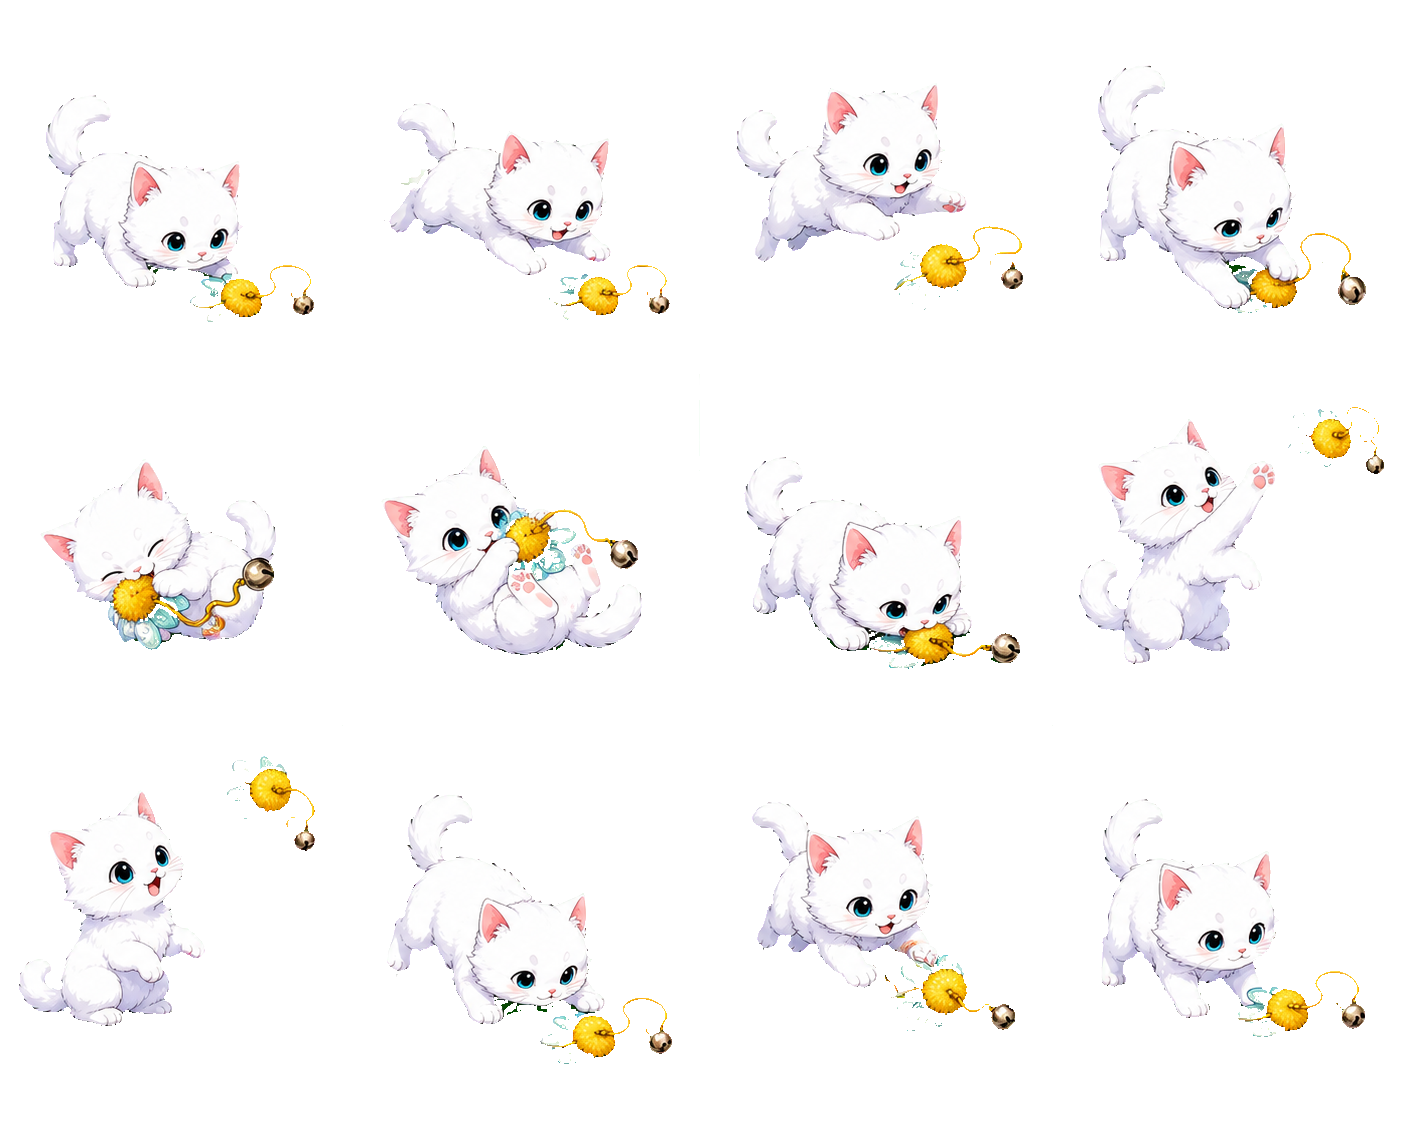
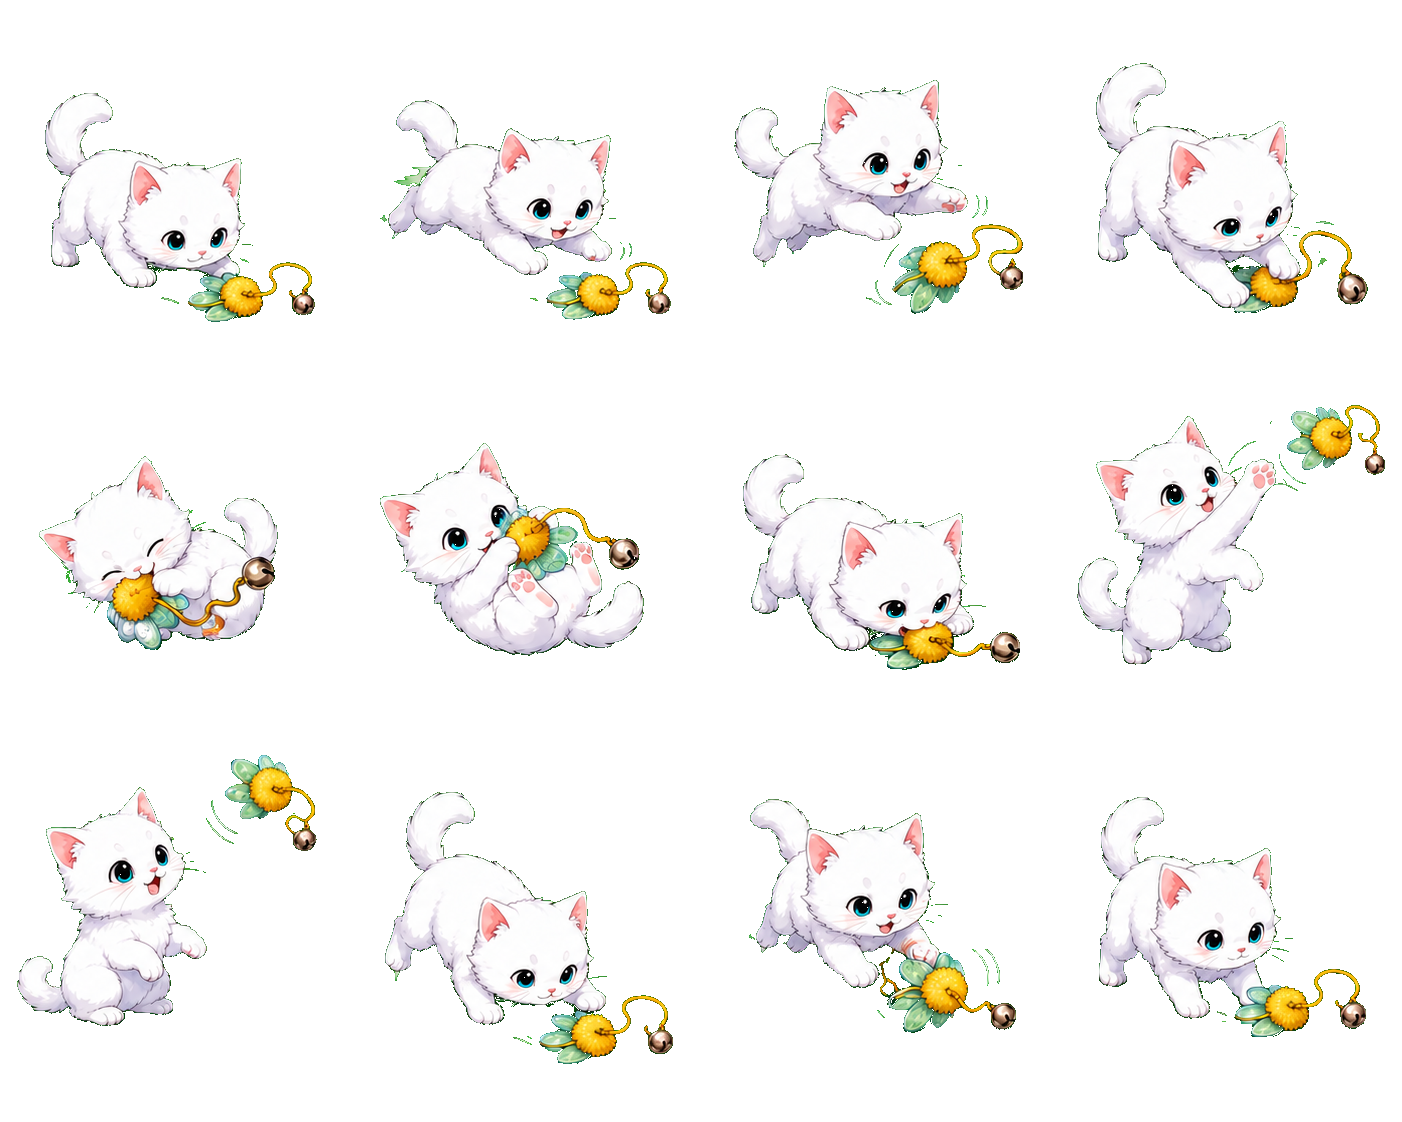
UI polish and animation tuning
- Redesign status bars and action buttons with color accents and smooth transitions
- Hide cat name label for cleaner look
- Fix sprite frame counts (eat/drink: 8 frames, play: faster speed)
- Adjust sleep scale to 0.65

diff --git a/index.html b/index.html
@@ -45,78 +45,124 @@ body {
 
 #status-panel {
   position: absolute;
-  top: 12px; left: 12px; right: 12px;
-  background: rgba(255,255,255,0.92);
-  border-radius: 14px;
-  padding: 12px 16px;
-  pointer-events: auto;
-  box-shadow: 0 2px 12px rgba(0,0,0,0.15);
+  top: 10px; left: 10px; right: 10px;
+  padding: 0;
+  pointer-events: none;
 }
 
 #cat-name {
-  font-size: 16px;
-  font-weight: 700;
-  color: #333;
-  margin-bottom: 8px;
-  display: flex;
-  align-items: center;
-  gap: 6px;
+  display: none;
+}
+
+#cat-name::before {
+  content: '';
 }
 
 #cat-name span {
-  font-size: 12px;
-  color: #888;
-  font-weight: 400;
+  display: none;
 }
 
 .stat-row {
   display: flex;
   align-items: center;
-  margin-bottom: 5px;
-  gap: 8px;
+  margin-bottom: 6px;
+  gap: 6px;
 }
 
 .stat-row:last-child { margin-bottom: 0; }
 
-.stat-icon { width: 20px; text-align: center; font-size: 14px; }
-.stat-label { width: 60px; font-size: 11px; color: #666; font-weight: 500; }
-.stat-bar-bg { flex: 1; height: 10px; background: #e8e8e8; border-radius: 5px; overflow: hidden; }
-.stat-bar { height: 100%; border-radius: 5px; transition: width 0.5s ease; }
-.stat-bar.hunger { background: linear-gradient(90deg, #ff6b6b, #ffa94d); }
-.stat-bar.thirst { background: linear-gradient(90deg, #4dabf7, #74c0fc); }
-.stat-bar.happiness { background: linear-gradient(90deg, #ffd43b, #ffe066); }
-.stat-bar.energy { background: linear-gradient(90deg, #69db7c, #8ce99a); }
-.stat-value { width: 32px; text-align: right; font-size: 11px; color: #888; font-weight: 600; }
+.stat-icon { width: 22px; text-align: center; font-size: 14px; filter: drop-shadow(0 1px 2px rgba(0,0,0,0.2)); }
+.stat-label { display: none; }
+.stat-bar-bg {
+  flex: 1; height: 14px;
+  background: rgba(255,255,255,0.5);
+  border-radius: 7px;
+  overflow: hidden;
+  box-shadow: inset 0 2px 4px rgba(0,0,0,0.08), 0 1px 0 rgba(255,255,255,0.6);
+  border: 1px solid rgba(0,0,0,0.06);
+}
+.stat-bar {
+  height: 100%; border-radius: 7px;
+  transition: width 0.5s cubic-bezier(0.4, 0, 0.2, 1);
+  position: relative;
+  overflow: hidden;
+}
+.stat-bar::after {
+  content: '';
+  position: absolute;
+  top: 2px; left: 4px; right: 4px;
+  height: 4px;
+  background: rgba(255,255,255,0.4);
+  border-radius: 3px;
+}
+.stat-bar.hunger { background: linear-gradient(90deg, #ff8a65, #ffab91); }
+.stat-bar.thirst { background: linear-gradient(90deg, #64b5f6, #90caf9); }
+.stat-bar.happiness { background: linear-gradient(90deg, #ffca28, #ffe082); }
+.stat-bar.energy { background: linear-gradient(90deg, #81c784, #a5d6a7); }
+.stat-value {
+  width: 30px; text-align: right;
+  font-size: 11px; color: #5d4037;
+  font-weight: 700;
+  text-shadow: 0 1px 2px rgba(255,255,255,0.6);
+}
 
 #action-bar {
   position: absolute;
-  bottom: 16px; left: 12px; right: 12px;
+  bottom: 14px; left: 10px; right: 10px;
   display: flex;
-  gap: 8px;
+  gap: 10px;
   justify-content: center;
   pointer-events: auto;
 }
 
 .action-btn {
-  width: 64px;
-  height: 64px;
-  border-radius: 16px;
-  border: none;
+  width: 62px;
+  height: 72px;
+  border-radius: 20px;
+  border: 2.5px solid transparent;
   cursor: pointer;
   display: flex;
   flex-direction: column;
   align-items: center;
   justify-content: center;
-  gap: 2px;
+  gap: 3px;
   background: rgba(255,255,255,0.95);
-  box-shadow: 0 3px 12px rgba(0,0,0,0.15);
-  transition: transform 0.15s, box-shadow 0.15s;
+  box-shadow: 0 4px 14px rgba(0,0,0,0.12), 0 2px 4px rgba(0,0,0,0.08);
+  transition: transform 0.2s cubic-bezier(0.34, 1.56, 0.64, 1), box-shadow 0.2s, border-color 0.2s;
+  position: relative;
+  overflow: hidden;
 }
 
-.action-btn:hover { transform: translateY(-2px); box-shadow: 0 5px 16px rgba(0,0,0,0.2); }
-.action-btn:active { transform: translateY(1px) scale(0.95); }
-.action-btn .icon { font-size: 22px; }
-.action-btn .label { font-size: 9px; color: #666; font-weight: 600; }
+.action-btn::before {
+  content: '';
+  position: absolute;
+  top: 0; left: 0; right: 0; bottom: 0;
+  border-radius: 18px;
+  opacity: 0.12;
+  transition: opacity 0.2s;
+}
+
+.action-btn[data-action="feed"] { border-color: #ffab91; }
+.action-btn[data-action="feed"]::before { background: linear-gradient(135deg, #ff8a65, #ffccbc); }
+.action-btn[data-action="water"] { border-color: #90caf9; }
+.action-btn[data-action="water"]::before { background: linear-gradient(135deg, #64b5f6, #bbdefb); }
+.action-btn[data-action="play"] { border-color: #ce93d8; }
+.action-btn[data-action="play"]::before { background: linear-gradient(135deg, #ab47bc, #e1bee7); }
+.action-btn[data-action="sleep"] { border-color: #a5d6a7; }
+.action-btn[data-action="sleep"]::before { background: linear-gradient(135deg, #66bb6a, #c8e6c9); }
+.action-btn[data-action="pet"] { border-color: #ffcc80; }
+.action-btn[data-action="pet"]::before { background: linear-gradient(135deg, #ffa726, #ffe0b2); }
+
+.action-btn:hover {
+  transform: translateY(-3px) scale(1.05);
+  box-shadow: 0 8px 20px rgba(0,0,0,0.15), 0 3px 6px rgba(0,0,0,0.1);
+}
+.action-btn:active {
+  transform: translateY(1px) scale(0.93);
+  box-shadow: 0 2px 6px rgba(0,0,0,0.15);
+}
+.action-btn .icon { font-size: 24px; z-index: 1; }
+.action-btn .label { font-size: 9px; color: #6d4c41; font-weight: 700; z-index: 1; letter-spacing: 0.3px; }
 
 #message-bubble {
   position: absolute;
@@ -322,10 +368,10 @@ bgImg.src = 'assets/bg.png';
 const sprites = {};
 const spriteConfigs = {
   idle:     { src: 'assets/idle.png', cols: 4, rows: 2, frames: 4, speed: 280, scale: 1.0 },
-  eat:      { src: 'assets/eat.png', cols: 4, rows: 2, frames: 4, speed: 300, scale: 1.0 },
-  drink:    { src: 'assets/drink.png', cols: 4, rows: 2, frames: 4, speed: 300, scale: 1.0 },
-  play:     { src: 'assets/play.png', cols: 4, rows: 3, frames: 8, speed: 420, scale: 1.35 },
-  sleep:    { src: 'assets/sleep.png', cols: 2, rows: 2, frames: 1, speed: 800, scale: 0.4 },
+  eat:      { src: 'assets/eat.png', cols: 4, rows: 2, frames: 8, speed: 300, scale: 1.0 },
+  drink:    { src: 'assets/drink.png', cols: 4, rows: 2, frames: 8, speed: 300, scale: 1.0 },
+  play:     { src: 'assets/play.png', cols: 4, rows: 3, frames: 8, speed: 250, scale: 1.35 },
+  sleep:    { src: 'assets/sleep.png', cols: 2, rows: 2, frames: 1, speed: 800, scale: 0.65 },
   walk:     { src: 'assets/walk.png', cols: 4, rows: 2, frames: 4, speed: 180, scale: 1.0 },
   roll:     { src: 'assets/roll.png', cols: 4, rows: 2, frames: 4, speed: 250, scale: 1.0 },
   pickedup: { src: 'assets/pickedup.png', cols: 4, rows: 1, frames: 2, speed: 800, scale: 0.55 },
@@ -620,7 +666,7 @@ function doAction(action) {
         showMessage("So fun! +20 😸");
         actionLock = false;
         pickIdleBehavior();
-      }, 2);
+      }, 1);
       break;
     case 'sleep':
       if (state.energy >= 95) { showMessage("Not sleepy! ⚡"); return; }